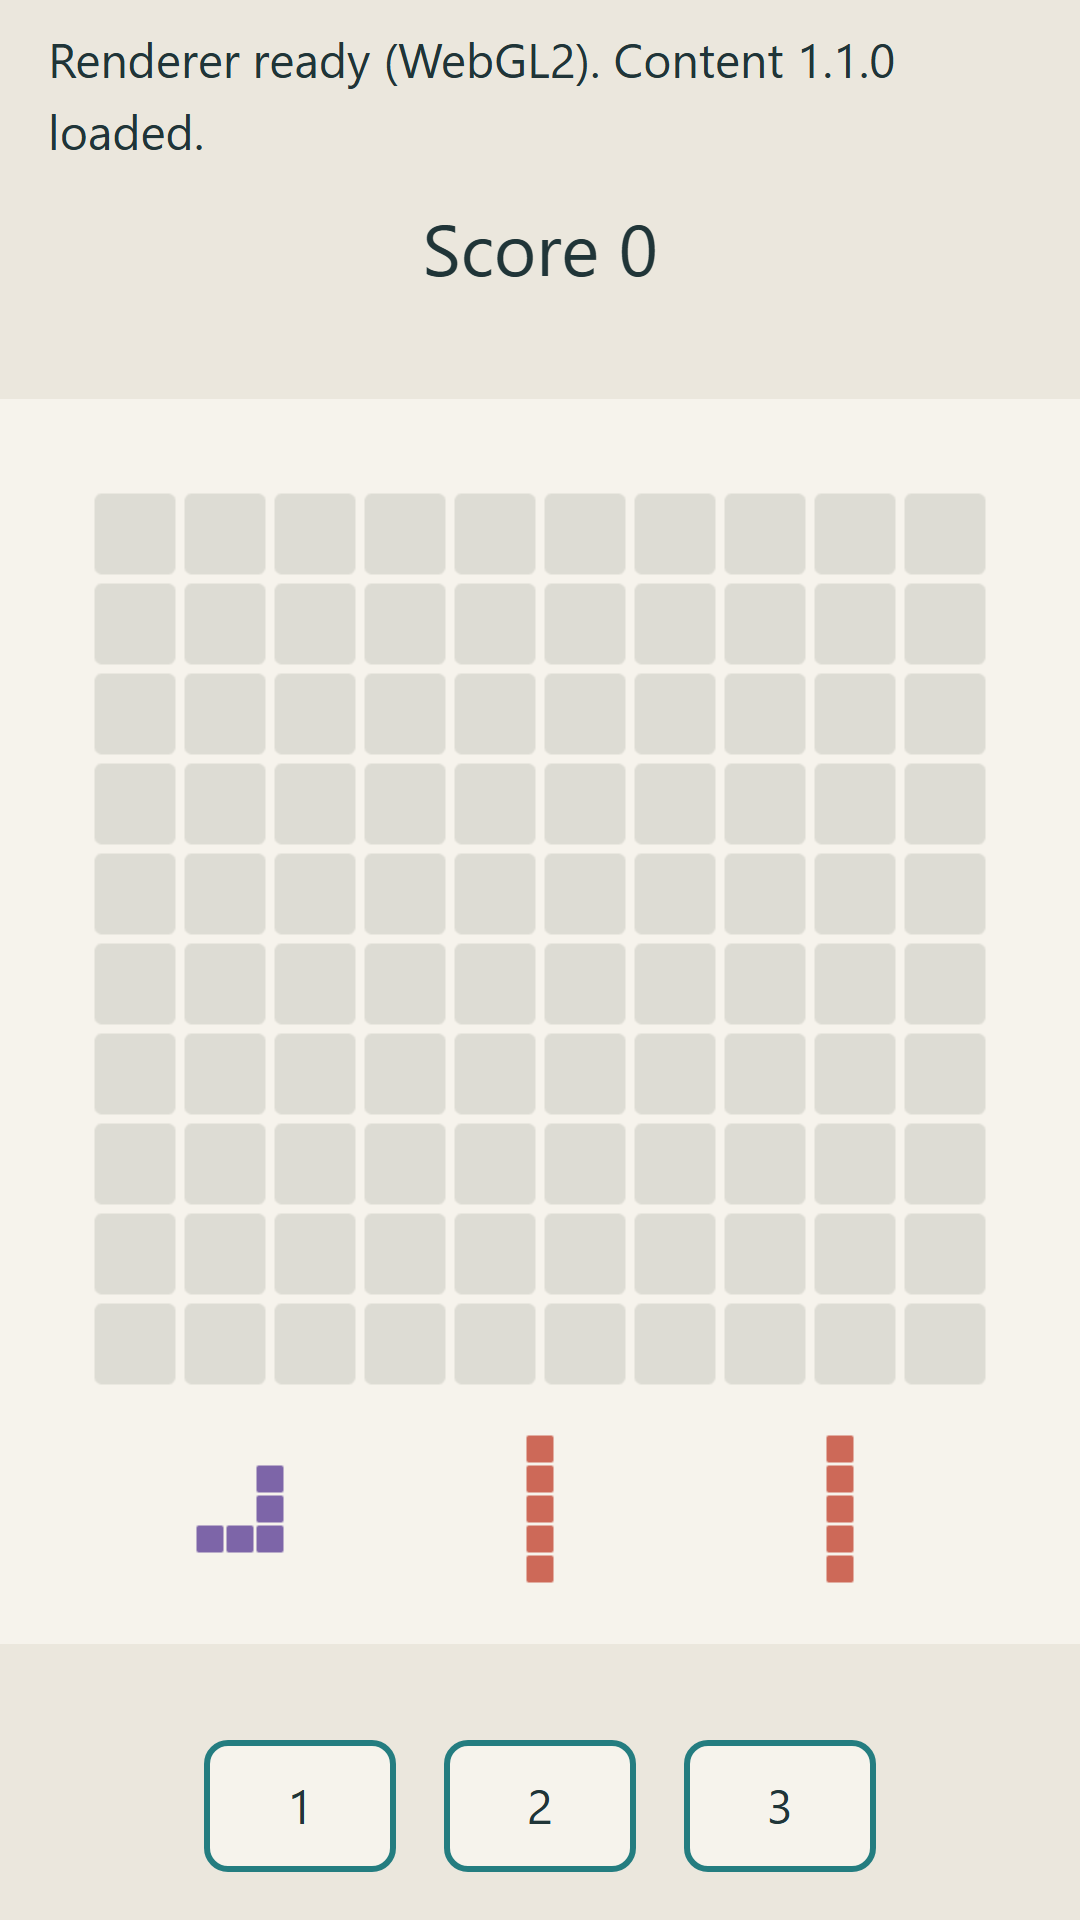
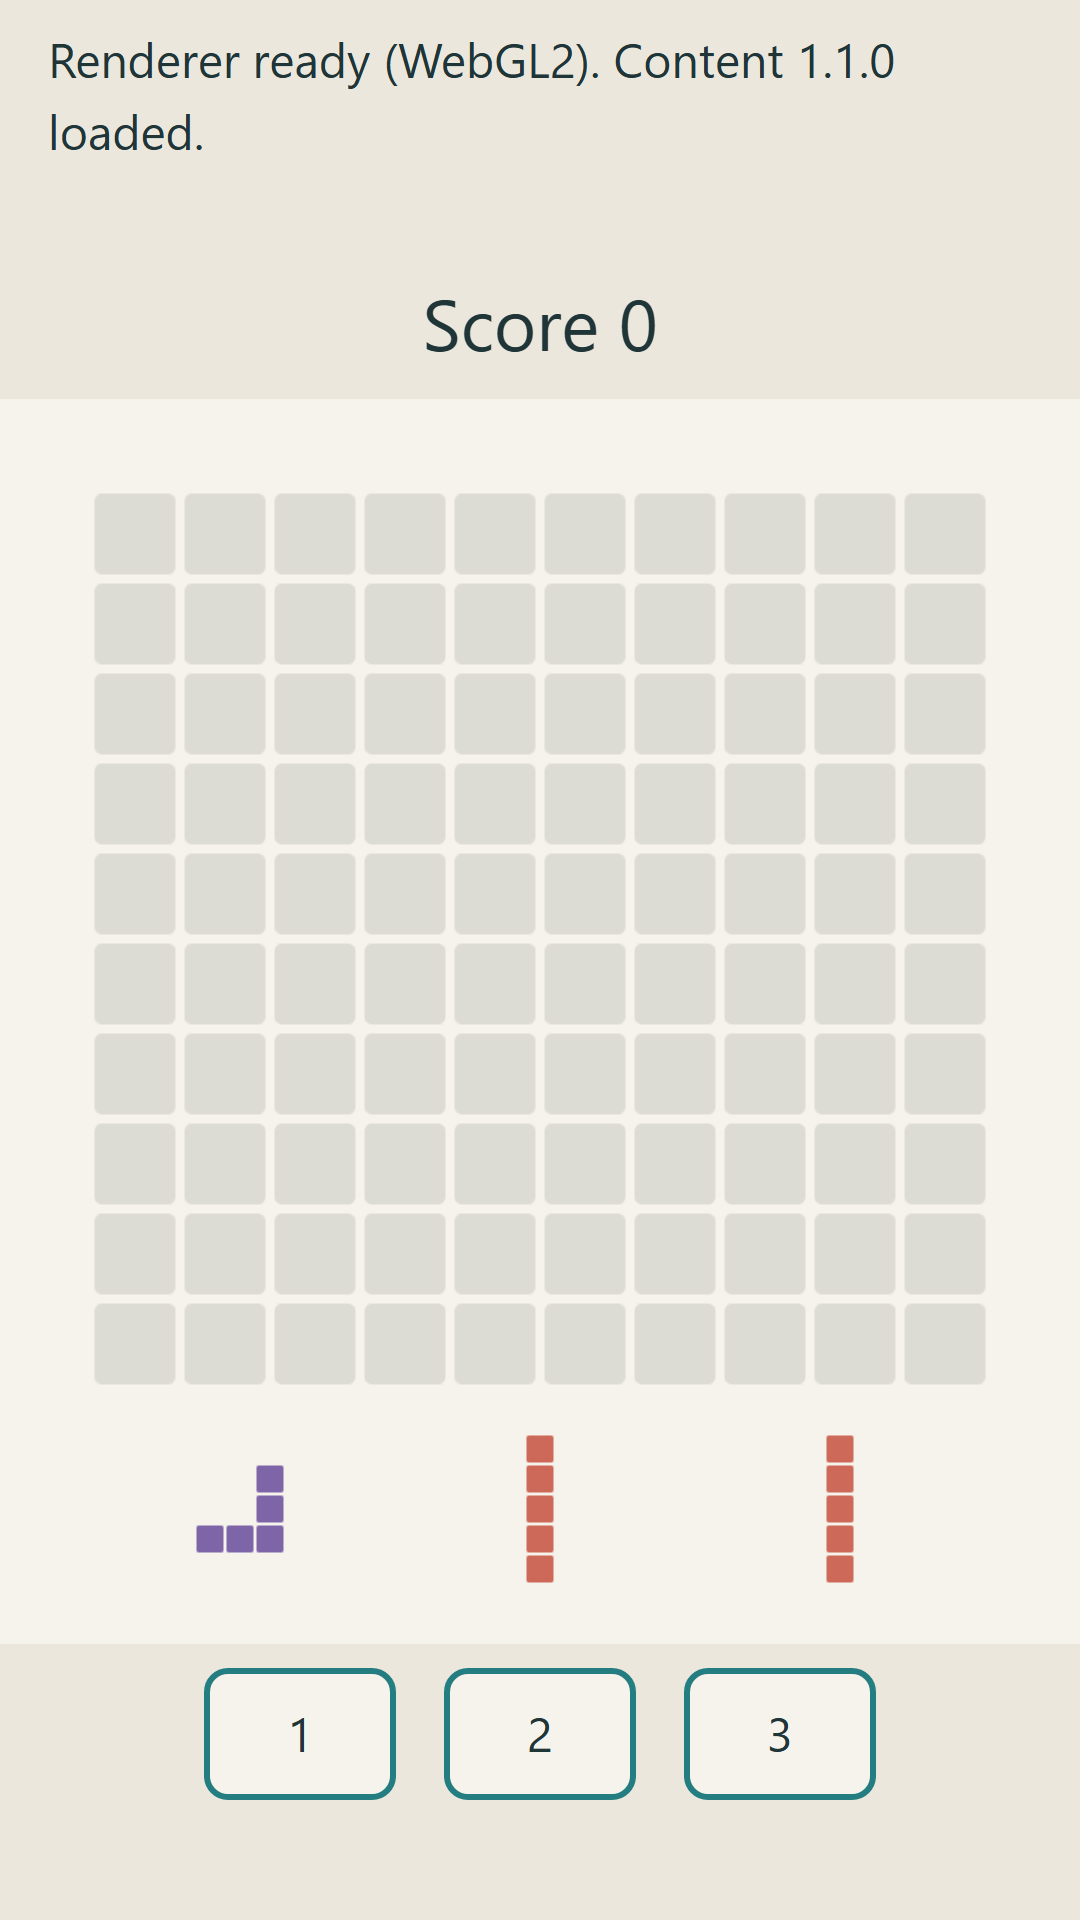
T13: Keep score, board and slot buttons together in tall windows
Amit's narrow-window screenshot showed the canvas centered alone in a tall
box, leaving wide empty bands between score, board and slot buttons. The
three now form one centered group inside #game, and fitToHost gives the
canvas the height the score and buttons leave.

The layout spec now requires the group to stay together and adds a
420x1000 case; the DPR piece test gets a 120s timeout. Amit's Edge
screenshots are stored as evidence.

diff --git a/tests/browser/layout.spec.ts b/tests/browser/layout.spec.ts
@@ -71,6 +71,7 @@ function expectColor(actual: number[], expected: string, what: string) {
 
 for (const dpr of [1, 2, 3]) {
   test(`all ${config.catalog.length} pieces render at DPR ${dpr} where the logical mapping puts them`, async ({ browser, baseURL }, info) => {
+    test.setTimeout(120_000); // 12 page loads and screenshots; about 30s at DPR 3 on SwiftShader
     const context = await browser.newContext({ deviceScaleFactor: dpr, viewport: { width: 800, height: 1000 }, baseURL: baseURL! });
     const page = await context.newPage();
     const rendered = new Set<string>();
@@ -124,6 +125,7 @@ const VIEWPORTS = [
   { name: 'desktop-1280x720', width: 1280, height: 720, dpr: 1 },
   { name: 'desktop-1920x1080', width: 1920, height: 1080, dpr: 1 },
   { name: 'tablet-1024x768', width: 1024, height: 768, dpr: 2 },
+  { name: 'narrow-window-420x1000', width: 420, height: 1000, dpr: 1 },
 ];
 
 for (const vp of VIEWPORTS) {
@@ -152,11 +154,14 @@ for (const vp of VIEWPORTS) {
     };
     [boxes.canvas, boxes.score, ...boxes.buttons].forEach(inside);
     expect(boxes.score.bottom).toBeLessThanOrEqual(boxes.canvas.top + 0.5);
+    // Score, canvas and buttons stay together; the letterbox goes around the group, not inside it.
+    expect(boxes.canvas.top - boxes.score.bottom).toBeLessThanOrEqual(1);
     expect(boxes.buttons).toHaveLength(config.traySize);
     for (const b of boxes.buttons) {
       expect(b.width).toBeGreaterThanOrEqual(44);
       expect(b.height).toBeGreaterThanOrEqual(44);
       expect(b.top).toBeGreaterThanOrEqual(boxes.canvas.bottom - 0.5);
+      expect(b.top - boxes.canvas.bottom).toBeLessThanOrEqual(10);
     }
     // Square cells: the canvas keeps the viewport aspect ratio.
     expect(Math.abs(boxes.canvas.width / boxes.canvas.height - VIEWPORT[2] / VIEWPORT[3])).toBeLessThan(0.01);

diff --git a/src/adapters/rendering/webgl-app.ts b/src/adapters/rendering/webgl-app.ts
@@ -33,10 +33,15 @@ export async function createWebGL2App({ logicalSize: [width, height], resolution
   return app;
 }
 
-/** Contain-fit the logical `viewport` rect inside `host`: square scaling, letterboxed, DPR-capped backing buffer. */
+/**
+ * Contain-fit the logical `viewport` rect inside `host`: square scaling, letterboxed, DPR-capped backing buffer.
+ * Other children of `host` (score, slot buttons) keep their height; the canvas gets the rest.
+ */
 export function fitToHost(app: Application, host: HTMLElement, [x, y, width, height]: Rect, resolutionCap: number): () => void {
   const fit = (): void => {
-    const scale = Math.min(host.clientWidth / width, host.clientHeight / height);
+    let reserved = 0;
+    for (const child of host.children) if (child !== app.canvas) reserved += (child as HTMLElement).offsetHeight;
+    const scale = Math.min(host.clientWidth / width, (host.clientHeight - reserved) / height);
     if (!(scale > 0)) return;
     const cssWidth = Math.floor(width * scale);
     const cssHeight = Math.floor(height * scale);

diff --git a/src/bootstrap/shell.css b/src/bootstrap/shell.css
@@ -83,18 +83,29 @@ a:focus-visible {
   outline-offset: 2px;
 }
 
-/* The canvas is contain-fitted inside this box by fitToHost; the remaining space is the letterbox. */
+/*
+ * Score, canvas and slot buttons stay together as one centered group; the letterbox is the space around the group.
+ * fitToHost sizes the canvas from what the score and buttons leave.
+ */
 #game {
-  /* Grows into the free height but never below 240px; the canvas never feeds back into this size. */
-  flex: 1 0 240px;
+  /* Grows into the free height but never below 360px; the canvas never feeds back into this size. */
+  flex: 1 0 360px;
   min-height: 0;
-  display: grid;
-  place-items: center;
+  display: flex;
+  flex-direction: column;
+  justify-content: center;
+  align-items: center;
   overflow: hidden;
+}
+
+#game > * {
+  flex: none;
+  align-self: stretch;
 }
 
 #game canvas {
   display: block;
+  align-self: center;
   touch-action: none;
 }
 

diff --git a/index.html b/index.html
@@ -20,9 +20,10 @@
         <button id="retry" type="button">Retry</button>
       </section>
       <section id="hud" aria-label="Game" hidden>
-        <p id="score-line">Score <span id="score">0</span></p>
-        <div id="game"></div>
-        <div id="slots" role="group" aria-label="Tray slots"></div>
+        <div id="game">
+          <p id="score-line">Score <span id="score">0</span></p>
+          <div id="slots" role="group" aria-label="Tray slots"></div>
+        </div>
       </section>
     </main>
     <script type="module" src="/src/bootstrap/main.ts"></script>

diff --git a/src/bootstrap/main.ts b/src/bootstrap/main.ts
@@ -73,7 +73,7 @@ async function start(): Promise<void> {
     hud.update(state);
     hudPanel.hidden = false;
 
-    host.appendChild(app.canvas);
+    slotGroup.before(app.canvas);
     disposeFit = fitToHost(app, host, viewportRect(runtime.logicalSize, runtime.boardRect), runtime.resolutionCap);
     status.textContent = `Renderer ready (WebGL2). Content ${content.contentVersion} loaded.`;
   } catch (error) {

diff --git a/docs/handoffs/T13.md b/docs/handoffs/T13.md
@@ -39,9 +39,15 @@ What the browser tests prove (headless Chromium, SwiftShader):
 - **Layouts:** 360×640 (DPR 3) fits without scrolling: canvas 360×415, board cell 30 CSS px. 1280×720, 1920×1080 and 1024×768 fit without scrolling. 844×390 landscape: canvas 208×240, page height 392 (2px vertical scroll, allowed by GDD 7.2). No horizontal overflow anywhere. Every slot button ≥44×44 CSS px and fully inside the page, score above canvas, buttons below.
 - Screenshots: `docs/evidence/t13/layout-*.png`, `pieces-dpr{1,2,3}-*.png`.
 
+## Amit's manual check and follow-up fix
+
+- Amit ran `npm run dev` in Edge on Windows (31 Oct 2026) and supplied two screenshots: a maximized window (`docs/evidence/t13/amit-edge-desktop-before-fix.png`) and a narrow tall window (`amit-narrow-before-fix.png`).
+- The desktop layout was correct. The narrow window showed a defect: the canvas was centered alone in a tall box, so wide empty bands separated the score, the board and the slot buttons.
+- Fix (branch `t13-layout-fix`): score, canvas and slot buttons now sit together in `#game` as one centered group, and `fitToHost` gives the canvas the height the other children leave. The layout spec now requires the score to touch the canvas and the buttons to sit within 10px below it, and adds a 420×1000 narrow-window case. After the fix: 44 browser tests and 208 unit tests pass. The DPR piece test got a 120s timeout (about 30s at DPR 3 on SwiftShader; it was at the 30s default).
+
 ## Not run
 
-- **Real-device screenshots:** NOT RUN. Needs Amit's phone and desktop browsers (`npm run dev` or a preview build).
+- **Real-device screenshots:** desktop Edge on Windows, provided by Amit (before the fix above); not yet re-checked after it. Phone: NOT RUN.
 - **Firefox/WebKit rendering:** layout spec runs on Chromium only; Firefox/WebKit projects still run only the replay spec.
 - **Occupied board cells:** no input exists yet, so no test renders a non-empty board. The board uses the same tint path as the tray; T14 will cover it once moves can be made.
 - **Safe-area insets:** padding is in CSS (from T03) but no notched device was tested.
